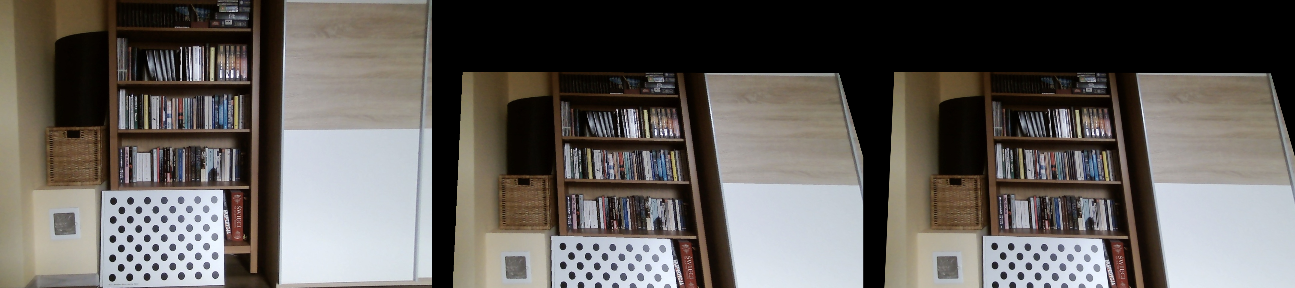
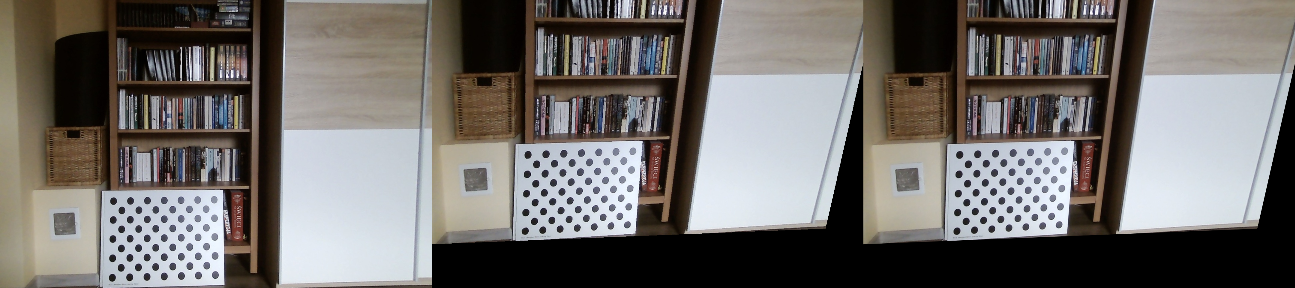
Merge task 4 files

diff --git a/task4_manual_projective_transformation.py b/task4_manual_projective_transformation.py
@@ -1,11 +1,11 @@
-import task1_camera_calibration
 import cv2
+import numpy as np
+import task2_3_projective_transformation as t2p
 
 WINDOW_NAME = "Collecting points..."
 BLUE = (255, 0, 0)
 
-# Assuming you have your undistorted images
-undistorted = [
+image_pair = [
     cv2.imread("output/set_1_1.jpg"),
     cv2.imread("output/set_1_2.jpg")
 ]
@@ -46,4 +46,9 @@ def get_coords(images):
     return all_coords
 
 
-print(get_coords(undistorted))
+coords = get_coords(image_pair)
+
+corners_from, corners_to = coords[0], coords[1]
+matrix = t2p.Transformer.find_homography(corners_from, corners_to)
+transformer = t2p.Transformer("./output/")
+transformer.check_projective_transformation("set_1_1.jpg", np.linalg.inv(matrix))

diff --git a/__main__.py b/__main__.py
@@ -11,6 +11,4 @@ if __name__ == '__main__':
     #     0.022)
     #camera_calibrator.set_directory("./calibration/")
     #undistorted = camera_calibrator.undistort_all("./images/", "./output/")
-    transformer = task2_3_projective_transformation.Transformer("./output/")
-    matrix_0_1 = np.array([[0.8056145184130631, -0.05385100808056643, 102.88205193959797], [-0.008367707050434492, 0.6888667285519479, 239.13799248044504], [-4.915028832167057e-05, -0.00019638820521876145, 1.0]])
-    transformer.check_projective_transformation("set_1_1.jpg", matrix_0_1)
+    pass
